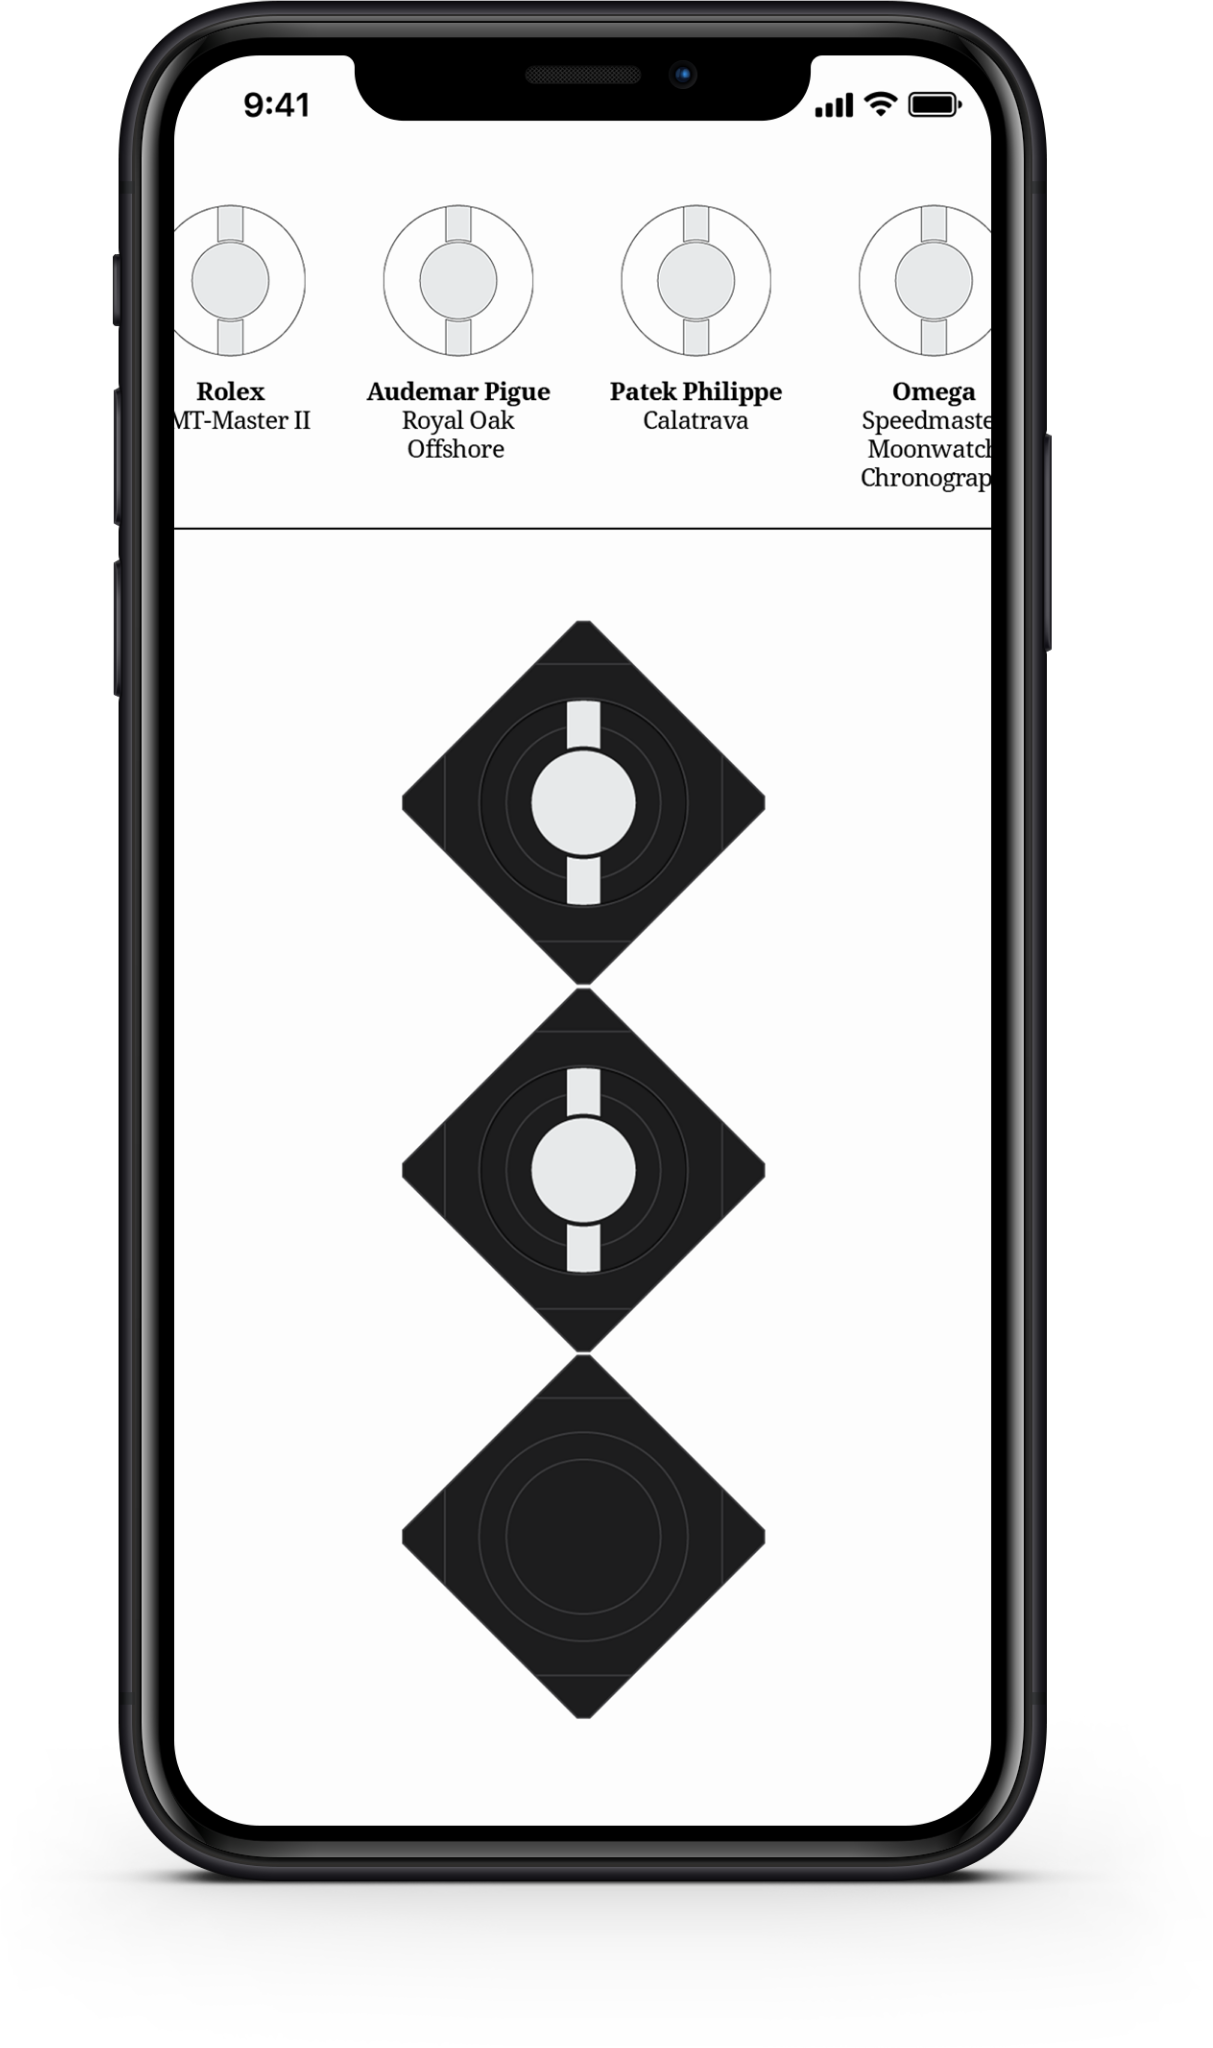
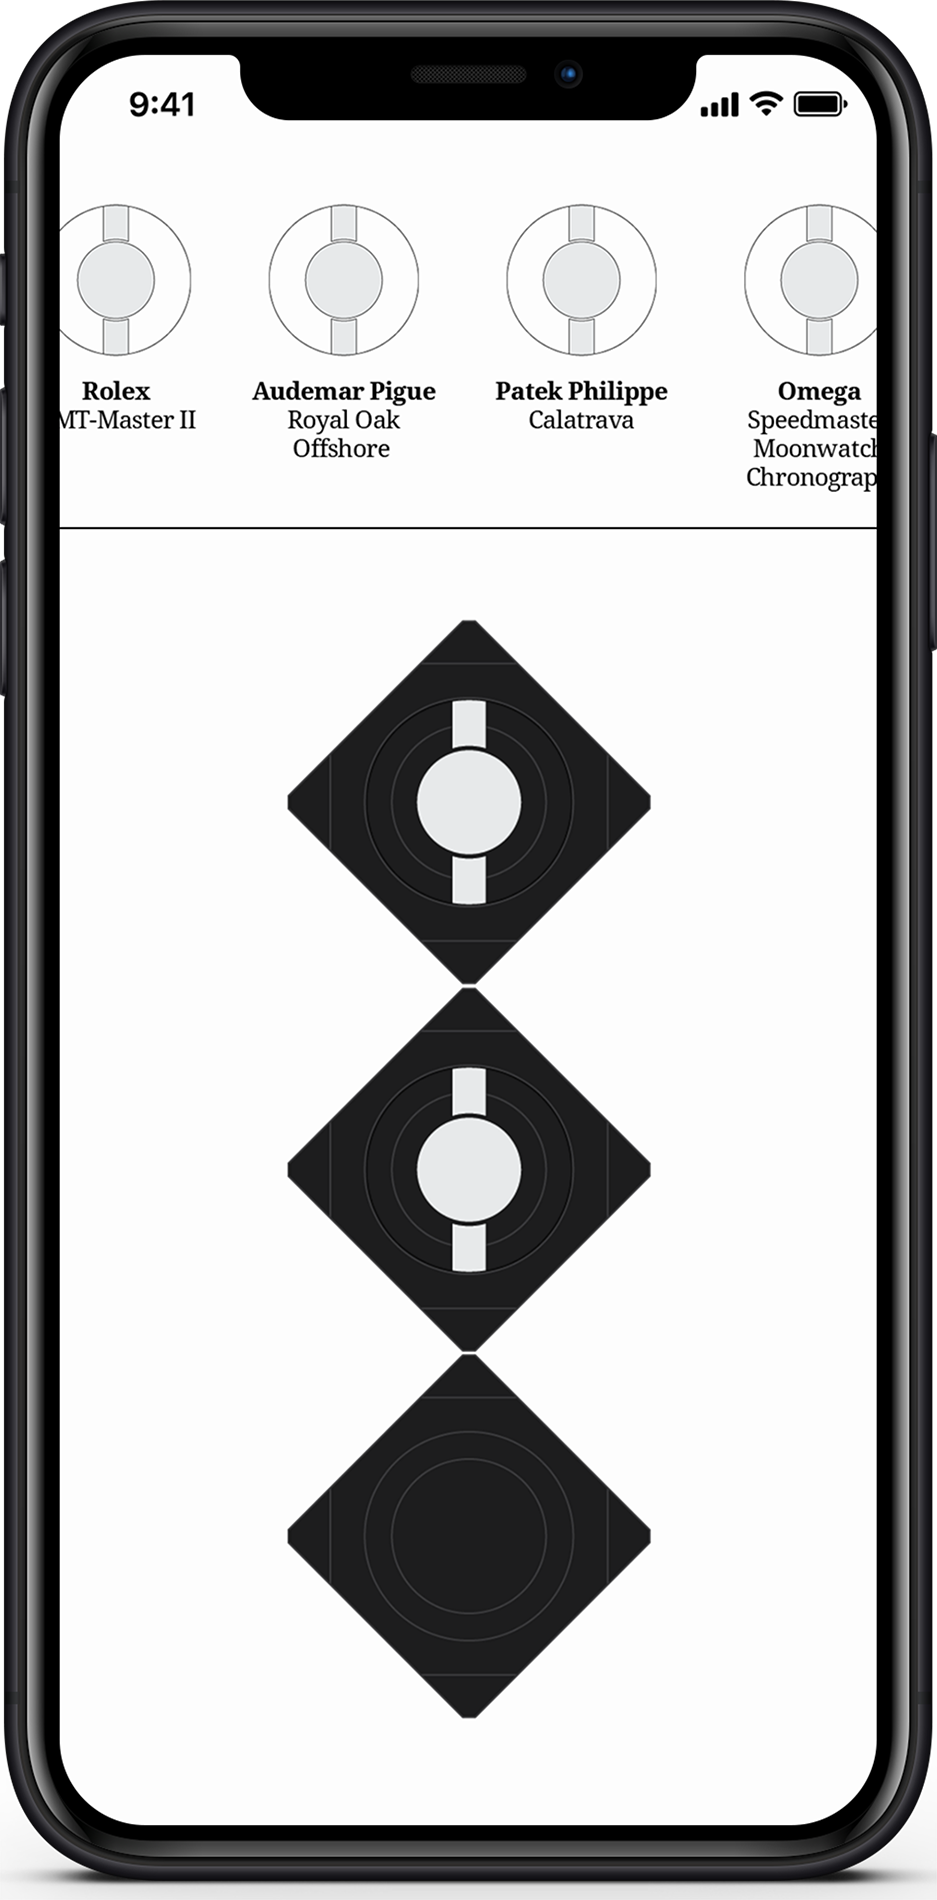
mobile improvements bottom area

diff --git a/style.css b/style.css
@@ -410,28 +410,49 @@ header a {
 }
 
 .app-mockup {
+  position: absolute;
+  top: 300px;
+  z-index: 20;
+  width: 30vw;
+  height: 1900px;
+  right: 0;
+  overflow: hidden;
+}
+
+.app-mockup--inner {
   background: url('./TM-app-mockup.png');
   background-size: cover;
-  width: 1213px;
-  height: 2048px;
+  width: 937px;
+  height: 1900px;
   position: absolute;
-  top: 379px;
-  right: -25vw;
-  z-index: 20;
+  left: 0;
+  top: 0;
 }
 
 .slick-prev:before, .slick-next:before {
   color: #000 !important;
 }
 
+footer {
+  height: 30vh;
+  width: 100%;
+  background: #000;
+  display: flex;
+  align-items: center;
+  justify-content: center;
+  font-size: 16px;
+  color: #9698a3;
+  border-top: 1px solid rgba(255, 255, 255, .1);
+}
+
 .app-mockup-text-section {
   border-top: 1px solid #FFF;
   position: absolute;
-  left: 140px;
-  width: calc(100% - 140px - 1213px + 20vw);
-  padding-right: 200px;
-  opacity: 0;
+  width: calc(100% - 30vw - 140px);
   padding-top: 40px;
+  padding-right: 40px;
+  right: 30vw;
+  opacity: 0;
   z-index: 10;
 }
 
@@ -463,8 +484,12 @@ header a {
   line-height: 30px;
 }
 
+.slider__5--hide-overflow {
+  overflow: hidden;
+}
+
 @media (-webkit-min-device-pixel-ratio: 2), (min-resolution: 192dpi) {
-  .app-mockup {
+  .app-mockup--inner {
     background-image: url('./TM-app-mockup@2x.png');
   }
 }
@@ -476,9 +501,8 @@ header a {
     left: 7vh;
   }
 
-  .app-mockup {
-    width: 1150px;
-    height: 1798px;
+  .app-mockup-text-section {
+    width: calc(100% - 30vw - 50px);
   }
 
   .app-mockup-text-section__title {
@@ -488,12 +512,7 @@ header a {
 
   .app-mockup-text-section__text {
     font-size: 20px;
-    line-height: 20px;
-  }
-
-  .app-mockup-text-section {
-    left: 70px;
-    width: calc(100% - 140px - 970px + 70px + 20vw);
+    line-height: 30px;
   }
 }
 
@@ -503,16 +522,6 @@ header a {
     width: 100%;
     transform: translateX(-50%);
     text-align: center;
-  }
-
-  .app-mockup {
-    width: 727px;
-    height: 1228px;
-    top: 20vh;
-  }
-
-  .app-mockup-text-section {
-    width: calc(100% - 140px - 727px + 70px + 20vw);
   }
 
   .app-mockup-text-section--first {
@@ -543,21 +552,6 @@ header a {
     line-height: 50px;
   }
 
-  .app-mockup {
-    width: 485px;
-    height: 819px;
-    top: 10vh;
-    right: -15vw;
-  }
-
-  .app-mockup-text-section {
-    padding-top: 20px;
-  }
-
-  .app-mockup-text-section {
-    width: calc(100% - 140px - 485px + 70px + 10vw);
-  }
-
   .app-mockup-text-section--first {
     top: 20vh;
   }
@@ -586,19 +580,28 @@ header a {
   }
 }
 
-@media screen and (max-width: 768px) {
+@media screen and (max-width: 770px) {
   .app-mockup {
+    right: auto;
+    left: calc(100% - 200px);
+  }
+
+  .app-mockup,
+  .app-mockup--inner {
     width: 363px;
-    height: 614px;
+    height: 735px;
+  }
+
+  .app-mockup-section {
+    height: 2500px;
+    padding-top: 600px;
   }
 
   .app-mockup-text-section {
     padding-top: 20px;
-    left: 40px;
   }
 
   .app-mockup-text-section {
-    width: calc(100% - 140px - 363px + 40px + 10vw);
     opacity: 1;
     border-top: none;
   }
@@ -626,40 +629,30 @@ header a {
   }
 }
 
-@media screen and (max-width: 650px) {
+@media screen and (max-width: 600px) {
   .app-mockup-text-section {
-    width: calc(100% - 140px - 250px + 40px + 10vw);
-  }
-
-  .app-mockup-section {
-    height: 100vh;
+    width: 50%;
+    right: 50%;
+    padding: 0 16px;
+    left: 0;
   }
 }
 
 @media screen and (max-width: 550px) {
   .app-mockup {
-    right: -25vw;
+    right: auto;
+    left: calc(100% - 150px);
   }
 
-  .app-mockup-text-section {
-    left: 20px;
-    width: calc(100% - 140px - 200px + 40px + 10vw);
+  .app-mockup,
+  .app-mockup--inner {
+    width: 250px;
+    height: 505px;
   }
 }
 
 @media screen and (max-width: 420px) {
-  .app-mockup {
-    right: -45vw;
-  }
-
-  .app-mockup-text-section {
-    width: calc(100% - 140px - 140px + 40px + 10vw);
-  }
-
-  .app-mockup-section {
-    height: 2200px;
-    padding-top: 600px;
-  }
+  
 }
 
 .living-room {
@@ -1026,10 +1019,6 @@ header a {
   .winder-bottom-description {
     width: 300px;
   }
-
-  .app-mockup-text-section {
-    padding-top: 0;
-  }
 }
 
 @media screen and (max-width: 1220px) {
@@ -1339,6 +1328,7 @@ header a {
     overflow: hidden;
     height: auto;
     padding: 0 10vw;
+    z-index: 10000;
   }
 
   .first-section video {
@@ -1445,10 +1435,10 @@ header a {
   }
 
   .winder-watch {
-    top: -125px;
-    left: -26px;
+    top: -69px;
+    left: 34px;
     z-index: 10;
-    transform: scale(0.33);
+    transform: scale(0.41);
   }
 
   .mobile-winder .winder-winder,

diff --git a/mobile-effects.js b/mobile-effects.js
@@ -263,92 +263,14 @@
     // .addIndicators({name: 'bottom description #3 winder opacity out'})
     .addTo(controller);
 
-  
-
-
-
-
-
   /**
    * Bottom Texts
    */
-  var mockupAppTween = new ScrollMagic.Scene({triggerElement: ".app-mockup-section", duration: 3500, offset: 300})
+  var mockupAppTween = new ScrollMagic.Scene({triggerElement: ".app-mockup-section", duration: 2000, offset: 500})
     .setPin('.app-mockup')
     // .addIndicators({name: 'mockup scroll'})
     .addTo(controller);
 
   var appMockupsDuration = 800;
-
-  /**
-   * first text
-   */
-  // var appMockupFirstTextPin = new ScrollMagic.Scene({triggerElement: ".app-mockup-section", duration: appMockupsDuration, offset: 650})
-  //   .setPin('.app-mockup-text-section--first')
-  //   .addIndicators({name: 'stick first text'})
-  //   .addTo(controller);
-
-  // var appMockupFirstTextTween = new TimelineMax()
-  //   .add(TweenMax.fromTo('.app-mockup-text-section--first', { opacity: 0 }, { opacity: 1, immediateRender: false }));
-  
-  // var appMockupFirstText = new ScrollMagic.Scene({triggerElement: '.app-mockup-text-section--first', duration: 150, offset: 650, ease: Linear.easeNone })
-  //   .setTween(appMockupFirstTextTween)
-  //   .addIndicators({name: 'first text visibility'})
-  //   .addTo(controller);
-
-  // var appMockupFirstTextTweenOut = new TimelineMax()
-  //   .add(TweenMax.fromTo('.app-mockup-text-section--first', { opacity: 1 }, { opacity: 0, immediateRender: false }));
-  
-  // var appMockupFirstTextOut = new ScrollMagic.Scene({triggerElement: '.app-mockup-text-section--first', duration: 150, offset: 750, ease: Linear.easeNone })
-  //   .setTween(appMockupFirstTextTweenOut)
-  //   .addIndicators({name: 'first text visibility out'})
-  //   .addTo(controller);
-
-  // /**
-  //  * second text
-  //  */
-  // var appMockupFirstTextPin2 = new ScrollMagic.Scene({triggerElement: ".app-mockup-section", duration: appMockupsDuration, offset: 1500})
-  //     .setPin('.app-mockup-text-section--second')
-  //     .addIndicators({name: 'stick second text'})
-  //     .addTo(controller);
-
-  // var appMockupFirstTextTween2 = new TimelineMax()
-  //   .add(TweenMax.fromTo('.app-mockup-text-section--second', { opacity: 0 }, { opacity: 1, immediateRender: false }));
-  
-  // var appMockupFirstText2 = new ScrollMagic.Scene({triggerElement: '.app-mockup-text-section--second', duration: 150, offset: 150, ease: Linear.easeNone })
-  //   .setTween(appMockupFirstTextTween2)
-  //   .addIndicators({name: 'second text visibility'})
-  //   .addTo(controller);
-
-  // var appMockupFirstTextTweenOut2 = new TimelineMax()
-  //   .add(TweenMax.fromTo('.app-mockup-text-section--second', { opacity: 1 }, { opacity: 0, immediateRender: false }));
-  
-  // var appMockupFirstTextOut2 = new ScrollMagic.Scene({triggerElement: '.app-mockup-text-section--second', duration: 150, offset: 737, ease: Linear.easeNone })
-  //   .setTween(appMockupFirstTextTweenOut2)
-  //   .addIndicators({name: 'second text visibility out'})
-  //   .addTo(controller);
-
-  // /**
-  //  * third text
-  //  */
-  // var appMockupFirstTextPin3 = new ScrollMagic.Scene({triggerElement: ".app-mockup-section", duration: appMockupsDuration, offset: 2300})
-  //     .setPin('.app-mockup-text-section--third')
-  //     .addIndicators({name: 'stick third text'})
-  //     .addTo(controller);
-
-  // var appMockupFirstTextTween3 = new TimelineMax()
-  //   .add(TweenMax.fromTo('.app-mockup-text-section--third', { opacity: 0 }, { opacity: 1 }));
-  
-  // var appMockupFirstText3 = new ScrollMagic.Scene({triggerElement: '.app-mockup-text-section--third', duration: 150, offset: 150, ease: Linear.easeNone })
-  //   .setTween(appMockupFirstTextTween3)
-  //   .addIndicators({name: 'third text visibility'})
-  //   .addTo(controller);
-
-  // var appMockupFirstTextTweenOut3 = new TimelineMax()
-  //   .add(TweenMax.fromTo('.app-mockup-text-section--third', { opacity: 1 }, { opacity: 0, immediateRender: false }));
-  
-  // var appMockupFirstTextOut3 = new ScrollMagic.Scene({triggerElement: '.app-mockup-text-section--third', duration: 150, offset: 700, ease: Linear.easeNone })
-  //   .setTween(appMockupFirstTextTweenOut3)
-  //   .addIndicators({name: 'third text visibility out'})
-  //   .addTo(controller);
 
 })();

diff --git a/index.html b/index.html
@@ -312,7 +312,9 @@
   </section>
 
   <section class="animation-section app-mockup-section">
-    <div class="app-mockup"></div>
+    <div class="app-mockup">
+      <div class="app-mockup--inner"></div>
+    </div>
 
     <div class="app-mockup-text-section app-mockup-text-section--first">
       <div class="app-mockup-text-section__title noto-serif-regular">Manage your watch collection.</div>
@@ -327,6 +329,10 @@
       <div class="app-mockup-text-section__text noto-serif-regular">Sed mollis venenatis nisl, sed consectetur enim lobortis sit amet. In condimentum tortor ut faucibus posuere. Phasellus egestas nibh quam.</div>
     </div>
   </section>
+
+  <footer>
+    @ 2020 TimeMachineWinder
+  </footer>
 
   <script src="mobile-effects.js"></script>
   <script src="effects.js"></script>

diff --git a/effects.js b/effects.js
@@ -850,6 +850,11 @@
     // .addIndicators({name: 'Original fade out In'})
     .addTo(controller);
 
+  var bottomWinderOriginalFadeOut = new ScrollMagic.Scene({triggerElement: '.single-break', offset: 26500})
+    .setClassToggle('.slider__5', 'slider__5--hide-overflow')
+    // .addIndicators({name: 'Original fade out In'})
+    .addTo(controller);
+
   var bottomWinderScaleUp = new ScrollMagic.Scene({triggerElement: '.single-break', offset: 26000, duration: 550})
     .setTween(bottomWinderScaleUpTween)
     // .addIndicators({name: 'winder scale up'})
